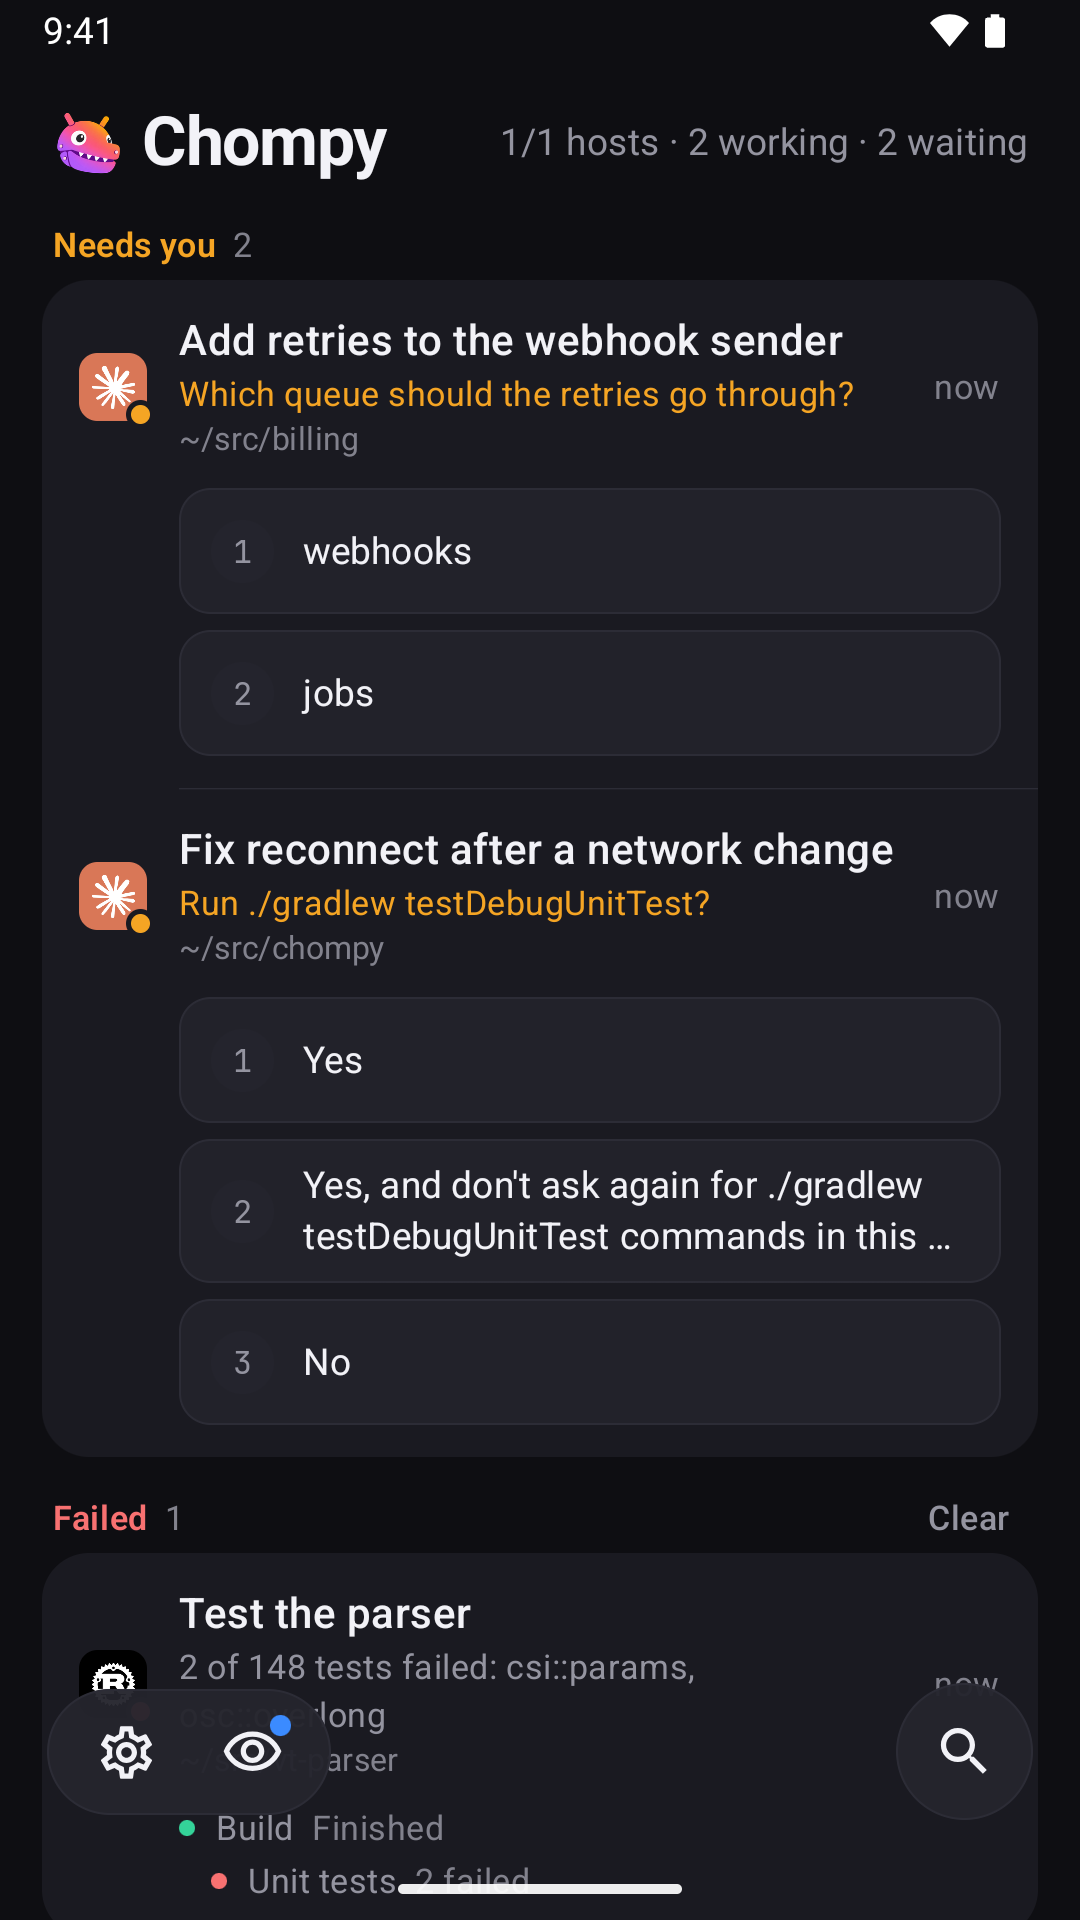
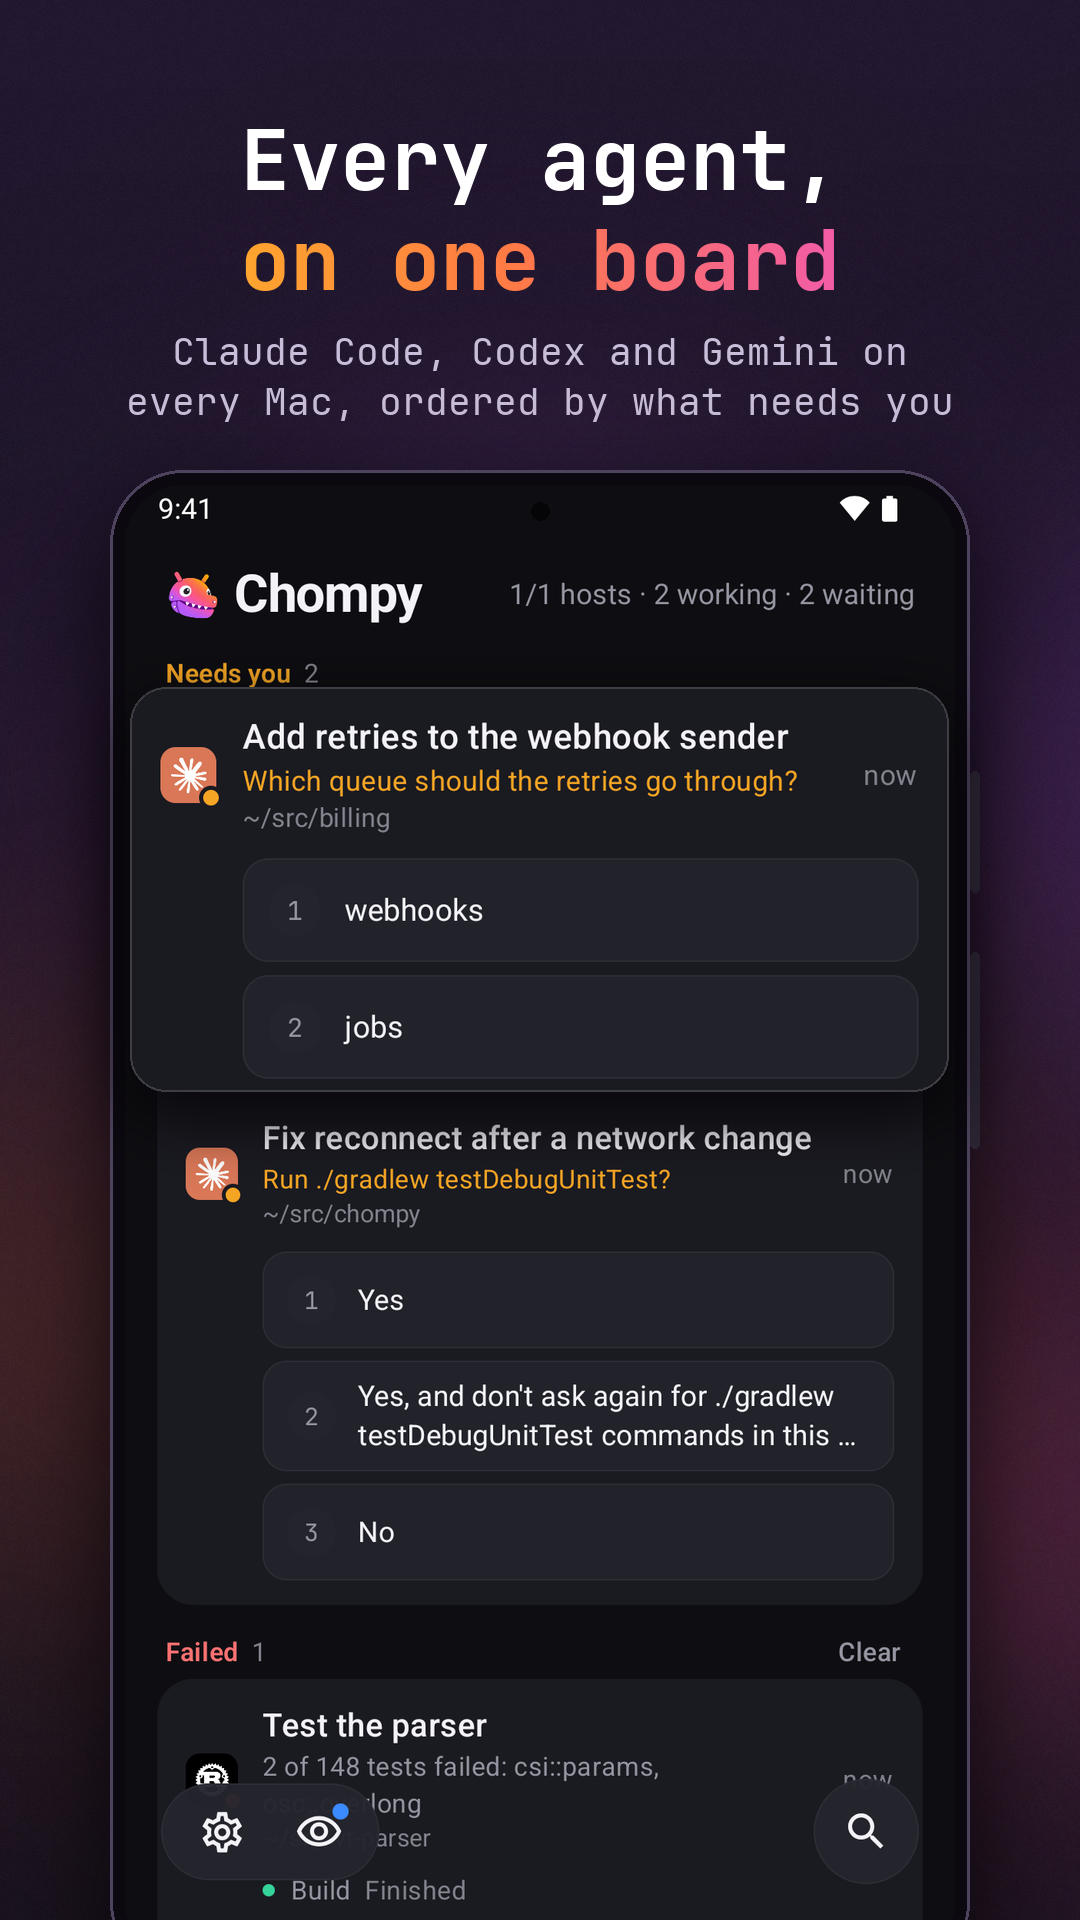
Play's screenshots: each in a phone under its headline
store-art.py frames the raw captures, now in docs/play/shots, with a headline
each, and redraws the feature graphic around the board.

diff --git a/docs/play/store-art.py b/docs/play/store-art.py
@@ -1,40 +1,255 @@
-"""Chompy's Play graphics: the 512 px icon, the 1024x500 feature graphic and a 1920x1080 promo-video backdrop.
+"""Chompy's Play graphics: the 512 px icon, the 1024x500 feature graphic, the six phone screenshots and a
+1920x1080 promo-video backdrop.
 
     python3 docs/play/store-art.py      # from the repository's root; needs Pillow
 
-The icon and feature graphic go in fastlane/metadata/android/en-US/images, the backdrop in build/demo for
-the promo video (docs/demo/README.md).
+The icon, feature graphic and screenshots go in fastlane/metadata/android/en-US/images, the backdrop in
+build/demo for the promo video (docs/demo/README.md). The screenshots frame the raw 1080x1920 captures in
+docs/play/shots, under a headline each, so a new recording only needs this run again.
 """
+import math
 import os
-from PIL import Image, ImageDraw, ImageFilter, ImageFont
+import random
+from PIL import Image, ImageChops, ImageDraw, ImageFilter, ImageFont
 
 repo = os.getcwd()
 out_listing, out_build = f"{repo}/fastlane/metadata/android/en-US/images", f"{repo}/build/demo"
+shots_in, shots_out = f"{repo}/docs/play/shots", f"{out_listing}/phoneScreenshots"
 os.makedirs(out_build, exist_ok=True)
+os.makedirs(shots_out, exist_ok=True)
 PLUM = (0x17, 0x12, 0x1F, 255)
+ORANGE, MAGENTA, VIOLET, AMBER = (0xE6, 0x68, 0x3D), (0xE0, 0x4C, 0x9A), (0xB0, 0x4C, 0xE0), (0xFF, 0xA5, 0x2E)
+PEACH, MUTED = (0xF2, 0xC6, 0xB4, 255), (0xC9, 0xBE, 0xD9, 255)
 BOLD = f"{repo}/app/src/main/res/font/jetbrains_mono_bold.ttf"
 REG = f"{repo}/app/src/main/res/font/jetbrains_mono.ttf"
 head = Image.open(f"{repo}/art/mascot/head2-gradient.png").convert("RGBA")
 body = Image.open(f"{repo}/art/mascot/full-gradient.png").convert("RGBA")
 logo = Image.open(f"{repo}/art/preview/logo-B.png").convert("RGBA")
 
+
+def save(im, path):
+    """24-bit PNG, as Play asks, with no metadata."""
+    im.convert("RGB").save(path)
+
+
 # Icon: the launcher's art, full bleed. Play rounds the corners itself.
 icon = Image.new("RGBA", logo.size, PLUM)
 icon.alpha_composite(logo)
-icon.convert("RGB").save(f"{out_listing}/icon.png")
+save(icon, f"{out_listing}/icon.png")
+
 
 def glow(size, centre, radius, colour, alpha):
-    """A soft disc of sunset light behind the mascot."""
+    """A soft disc of sunset light."""
     layer = Image.new("RGBA", size, (0, 0, 0, 0))
     d = ImageDraw.Draw(layer)
     x, y = centre
     d.ellipse((x - radius, y - radius, x + radius, y + radius), fill=colour + (alpha,))
     return layer.filter(ImageFilter.GaussianBlur(radius * 0.45))
 
+
 def fit(im, height):
     box = im.getbbox()
     im = im.crop(box)
     return im.resize((round(im.width * height / im.height), height), Image.LANCZOS)
+
+
+def sunset(size):
+    """The sunset gradient, amber to orange to magenta, left to right."""
+    stops = [(0.0, AMBER), (0.45, (0xFF, 0x7A, 0x45)), (1.0, (0xF2, 0x5C, 0xA8))]
+    strip = Image.new("RGB", (256, 1))
+    for i in range(256):
+        t = i / 255
+        for (t0, c0), (t1, c1) in zip(stops, stops[1:]):
+            if t0 <= t <= t1:
+                k = (t - t0) / (t1 - t0)
+                strip.putpixel((i, 0), tuple(round(a + (b - a) * k) for a, b in zip(c0, c1)))
+                break
+    return strip.resize(size, Image.BILINEAR).convert("RGBA")
+
+
+def gradient_text(canvas, xy, text, font):
+    """Text filled with the sunset gradient."""
+    x, y = xy
+    left, top, right, bottom = font.getbbox(text)
+    mask = Image.new("L", (right, bottom), 0)
+    ImageDraw.Draw(mask).text((0, 0), text, font=font, fill=255)
+    fill = sunset(mask.size)
+    fill.putalpha(mask)
+    canvas.alpha_composite(fill, (round(x), round(y)))
+
+
+def shadow(size, box, radius, blur, alpha, offset=(0, 0)):
+    """The soft shadow of a rounded rectangle."""
+    layer = Image.new("RGBA", size, (0, 0, 0, 0))
+    x0, y0, x1, y1 = box
+    dx, dy = offset
+    ImageDraw.Draw(layer).rounded_rectangle((x0 + dx, y0 + dy, x1 + dx, y1 + dy), radius, fill=(6, 3, 10, alpha))
+    return layer.filter(ImageFilter.GaussianBlur(blur))
+
+
+def rounded(im, radius):
+    """The image with its corners rounded off."""
+    mask = Image.new("L", im.size, 0)
+    ImageDraw.Draw(mask).rounded_rectangle((0, 0, im.width - 1, im.height - 1), radius, fill=255)
+    out = im.convert("RGBA")
+    out.putalpha(ImageChops.multiply(out.getchannel("A"), mask))
+    return out
+
+
+def phone(capture, width):
+    """The capture in a plain dark phone: thin bezel, rounded corners, a punch-hole camera, side keys."""
+    bezel = max(5, round(width * 0.018))
+    screen_w = width - 2 * bezel
+    screen = capture.convert("RGB").resize((screen_w, round(capture.height * screen_w / capture.width)), Image.LANCZOS)
+    height = screen.height + 2 * bezel
+    keys = max(2, round(width * 0.006))
+    out = Image.new("RGBA", (width + 2 * keys, height), (0, 0, 0, 0))
+    d = ImageDraw.Draw(out)
+    # Power and volume keys on the right edge.
+    for top, length in ((0.20, 0.08), (0.32, 0.13)):
+        d.rounded_rectangle((width, round(height * top), width + 2 * keys - 1, round(height * (top + length))),
+                            keys, fill=(0x2A, 0x24, 0x33, 255))
+    outer_r = round(width * 0.085)
+    rim = max(1, round(width * 0.003))
+    d.rounded_rectangle((0, 0, width - 1, height - 1), outer_r, fill=(0x4E, 0x43, 0x5E, 255))
+    d.rounded_rectangle((rim, rim, width - 1 - rim, height - 1 - rim), outer_r - rim, fill=(0x0B, 0x09, 0x0F, 255))
+    out.alpha_composite(rounded(screen, outer_r - bezel), (bezel, bezel))
+    cam = max(3, round(width * 0.011))
+    cx, cy = width // 2, bezel + round(width * 0.03)
+    d.ellipse((cx - cam, cy - cam, cx + cam, cy + cam), fill=(0x05, 0x04, 0x07, 255))
+    return out, bezel, screen_w / capture.width
+
+
+# The phone screenshots, 1080x1920, as Play wants them for promotion (9:16, 1080 px at least). Each is a
+# headline of two lines, the second in the sunset's colours, a line saying more, and the capture in a phone
+# that runs off the bottom edge. "lift" raises one part of the capture out of the phone, a little larger:
+# its box in the capture, the corner radius there, and how much larger. The boxes fit these captures, so
+# check them after a new recording.
+SHOTS = [
+    ("1_board", "Every agent,", "on one board",
+     "Claude Code, Codex and Gemini on every Mac, ordered by what needs you",
+     ((42, 280, 1038, 772), 44, 1.07)),
+    ("2_notification", "Answer from", "the notification",
+     "Pick an agent's answer in the shade, without opening the app",
+     ((42, 568, 1038, 891), 44, 1.08)),
+    ("3_permission", "Approve without", "the laptop",
+     "Permission prompts in the server's own terminal, one tap each",
+     ((21, 868, 1059, 1563), 46, 1.1)),
+    ("4_note", "Read what", "Claude flags",
+     "Claude's “You should know” notes, in full",
+     ((21, 792, 1059, 1563), 46, 1.1)),
+    ("5_claude_controls", "Claude's controls", "at hand",
+     "Effort, model and commands, right above the keyboard",
+     None),
+    ("6_themes", "All 41 of", "Rex's themes",
+     "The same themes as on the Mac, dark and light",
+     ((42, 490, 1038, 646), 40, 1.08)),
+]
+W, H = 1080, 1920
+HEAD, SUB = ImageFont.truetype(BOLD, 84), ImageFont.truetype(REG, 38)
+MARGIN = 72
+PHONE_W, PHONE_Y = 860, 470
+
+
+def wrap(text, font, width):
+    """One line if it fits, else two of about the same length."""
+    if font.getlength(text) <= width:
+        return [text]
+    words = text.split()
+    splits = [(" ".join(words[:i]), " ".join(words[i:])) for i in range(1, len(words))]
+    best = min(splits, key=lambda pair: max(font.getlength(line) for line in pair))
+    assert max(font.getlength(line) for line in best) <= width, f"too long for two lines: {text}"
+    return list(best)
+
+
+def backdrop():
+    """One wide background behind all six, so the glow runs on from one screenshot to the next."""
+    n, s = len(SHOTS), 4  # the glows are drawn at a quarter of the size: they're blurred anyway
+    size = (W * n // s, H // s)
+    bg = Image.new("RGBA", size, PLUM)
+    top = Image.new("RGBA", size, (0x22, 0x18, 0x30, 255))
+    fade = Image.linear_gradient("L").resize(size).point(lambda v: 255 - v)
+    bg = Image.composite(top, bg, fade)
+    for i in range(n):
+        cx = (i * W + W / 2) / s
+        wave = math.sin(i * 1.3)
+        bg.alpha_composite(glow(size, (cx + 260 / s * wave, 1300 / s), 560 / s, ORANGE, 92))
+        bg.alpha_composite(glow(size, (cx - 300 / s * wave, 820 / s), 470 / s, VIOLET, 74))
+        bg.alpha_composite(glow(size, ((i + 1) * W / s, 1500 / s), 380 / s, MAGENTA, 60))
+    bg = bg.resize((W * n, H), Image.BICUBIC)
+    # A little grain, so the dark gradients don't band. Seeded, so the same captures make the same files.
+    noise = Image.frombytes("L", (W * n, H), random.Random(7).randbytes(W * n * H))
+    grain = noise.point(lambda v: 128 + (v - 128) // 43)
+    return ImageChops.add(bg.convert("RGB"), Image.merge("RGB", (grain,) * 3), offset=-128).convert("RGBA")
+
+
+def screenshot(panel, name, line1, line2, subline, lift):
+    canvas = panel.copy()
+    d = ImageDraw.Draw(canvas)
+    y = 104
+    for text, colour in ((line1, (255, 255, 255, 255)), (line2, None)):
+        x = (W - HEAD.getlength(text)) / 2
+        if colour:
+            d.text((x, y), text, font=HEAD, fill=colour)
+        else:
+            gradient_text(canvas, (x, y), text, HEAD)
+        y += 100
+    y += 22
+    for line in wrap(subline, SUB, W - 2 * MARGIN - 40):
+        d.text(((W - SUB.getlength(line)) / 2, y), line, font=SUB, fill=MUTED)
+        y += 50
+    assert y <= PHONE_Y - 20, f"{name}: the words run into the phone"
+
+    capture = Image.open(f"{shots_in}/{name}.png").convert("RGB")
+    assert capture.size == (W, H), f"{name}: the capture is {capture.size}, not 1080x1920"
+    device, bezel, scale = phone(capture, PHONE_W)
+    px = (W - PHONE_W) // 2
+    box = (px, PHONE_Y, px + PHONE_W, PHONE_Y + device.height)
+    canvas.alpha_composite(shadow(canvas.size, box, 80, 46, 210, (0, 34)))
+    canvas.alpha_composite(device, (px, PHONE_Y))
+    if lift:
+        (x0, y0, x1, y1), radius, grow = lift
+        part = capture.crop((x0, y0, x1, y1))
+        w, h = round(part.width * scale * grow), round(part.height * scale * grow)
+        part = rounded(part.resize((w, h), Image.LANCZOS), round(radius * scale * grow))
+        # Centred where it sits in the phone.
+        cx = px + bezel + (x0 + x1) / 2 * scale
+        cy = PHONE_Y + bezel + (y0 + y1) / 2 * scale
+        lx, ly = round(cx - w / 2), round(cy - h / 2)
+        canvas.alpha_composite(shadow(canvas.size, (lx, ly, lx + w, ly + h), 30, 30, 230, (0, 22)))
+        canvas.alpha_composite(part, (lx, ly))
+        rim = Image.new("RGBA", canvas.size, (0, 0, 0, 0))
+        ImageDraw.Draw(rim).rounded_rectangle((lx, ly, lx + w - 1, ly + h - 1), round(radius * scale * grow),
+                                              outline=(0xFF, 0xFF, 0xFF, 40), width=2)
+        canvas.alpha_composite(rim)
+    save(canvas, f"{shots_out}/{name}.png")
+
+
+wide = backdrop()
+for i, shot in enumerate(SHOTS):
+    screenshot(wide.crop((i * W, 0, (i + 1) * W, H)), *shot)
+
+# Feature graphic, 1024x500: the name on the left, the board in a phone and Chompy on the right. Play may
+# crop the edges and put a play button in the middle, so both keep clear of them.
+fg = Image.new("RGBA", (1024, 500), PLUM)
+fg.alpha_composite(glow(fg.size, (760, 320), 250, ORANGE, 96))
+fg.alpha_composite(glow(fg.size, (860, 150), 190, VIOLET, 84))
+fg.alpha_composite(glow(fg.size, (650, 380), 200, MAGENTA, 70))
+fg.alpha_composite(glow(fg.size, (160, 520), 220, MAGENTA, 40))
+# The phone runs off the bottom edge, below the board's cards.
+board, _, _ = phone(Image.open(f"{shots_in}/1_board.png"), 300)
+fx, fy = 1024 - 86 - 300, 38
+fg.alpha_composite(shadow(fg.size, (fx, fy, fx + 300, fy + board.height), 28, 18, 210, (0, 10)))
+fg.alpha_composite(board, (fx, fy))
+mascot = fit(body, 262)
+fg.alpha_composite(mascot, (576, 500 - mascot.height - 20))
+d = ImageDraw.Draw(fg)
+d.text((70, 118), "Chompy", font=ImageFont.truetype(BOLD, 100), fill=(255, 255, 255, 255))
+tag = ImageFont.truetype(BOLD, 32)
+gradient_text(fg, (74, 268), "Your coding agents,", tag)
+gradient_text(fg, (74, 314), "on your phone.", tag)
+save(fg, f"{out_listing}/featureGraphic.png")
+
 
 def text_block(canvas, x, y, scale):
     d = ImageDraw.Draw(canvas)
@@ -42,26 +257,18 @@ def text_block(canvas, x, y, scale):
     y += round(140 * scale)
     tag = ImageFont.truetype(REG, round(31 * scale))
     for line in ("Your coding agents,", "on your phone."):
-        d.text((x, y), line, font=tag, fill=(0xF2, 0xC6, 0xB4, 255))
+        d.text((x, y), line, font=tag, fill=PEACH)
         y += round(44 * scale)
     y += round(22 * scale)
     d.text((x, y), "An unofficial client for Rex", font=ImageFont.truetype(REG, round(21 * scale)), fill=(0x9A, 0x8F, 0xAD, 255))
 
-# Feature graphic, 1024x500: the words on the left, Chompy standing on the right.
-fg = Image.new("RGBA", (1024, 500), PLUM)
-fg.alpha_composite(glow(fg.size, (790, 270), 230, (0xE6, 0x68, 0x3D), 70))
-fg.alpha_composite(glow(fg.size, (840, 200), 170, (0xB0, 0x4C, 0xE0), 60))
-mascot = fit(body, 440)
-fg.alpha_composite(mascot, (1024 - mascot.width - 70, 500 - mascot.height - 22))
-text_block(fg, 72, 92, 1.0)
-fg.convert("RGB").save(f"{out_listing}/featureGraphic.png")
 
 # Promo video backdrop, 1920x1080: the words and the head on the left; the phone's video goes on the right,
 # 486x1080 at x=1250.
 bg = Image.new("RGBA", (1920, 1080), PLUM)
-bg.alpha_composite(glow(bg.size, (1493, 540), 520, (0xE6, 0x68, 0x3D), 46))
-bg.alpha_composite(glow(bg.size, (1493, 380), 380, (0xB0, 0x4C, 0xE0), 40))
+bg.alpha_composite(glow(bg.size, (1493, 540), 520, ORANGE, 46))
+bg.alpha_composite(glow(bg.size, (1493, 380), 380, VIOLET, 40))
 h = fit(head, 300)
 bg.alpha_composite(h, (150, 150))
 text_block(bg, 150, 500, 1.55)
-bg.convert("RGB").save(f"{out_build}/promo-backdrop.png")
+save(bg, f"{out_build}/promo-backdrop.png")

diff --git a/docs/demo/README.md b/docs/demo/README.md
@@ -74,9 +74,11 @@ little longer at some of them, for the last banner to go and the note's card to 
 - **The README's** come from a run at the emulator's own size, scaled to 540×1200: `board` is
   `docs/media/board.png`, `permission` is `answer.png` and `note-open` is `note.png`.
 - **Play's** come from a run at 1080×1920, since Play takes no screenshot longer than twice its width.
-  Run `adb shell wm size 1080x1920` first, and `adb shell wm size reset` after. They are
-  `fastlane/metadata/android/en-US/images/phoneScreenshots`: the board, a notification (below),
-  permission, the note, Claude's controls, and Settings › Look › Theme.
+  Run `adb shell wm size 1080x1920` first, and `adb shell wm size reset` after. They go in
+  `docs/play/shots`: `board` as `1_board.png`, the notification (below) as `2_notification.png`,
+  `permission` as `3_permission.png`, `note-open` as `4_note.png`, `effort` as `5_claude_controls.png`,
+  and Settings › Look › Theme as `6_themes.png`. [`store-art.py`](../play/store-art.py) then puts each in
+  a phone under its headline, in `fastlane/metadata/android/en-US/images/phoneScreenshots`.
 
 ## For Google Play
 
@@ -86,7 +88,7 @@ little longer at some of them, for the last banner to go and the note's card to 
   `build/demo/away-raw.mp4`, for the foreground service declaration, and the notification shade in
   `build/demo/notification.png`, for the listing.
 - **The promo video**, landscape as Play shows it: the take over a backdrop with the name, made by
-  [`store-art.py`](../play/store-art.py) with the icon and the feature graphic.
+  [`store-art.py`](../play/store-art.py) with the icon, the feature graphic and the screenshots.
 
   ```sh
   python3 docs/play/store-art.py

diff --git a/docs/play/README.md b/docs/play/README.md
@@ -80,8 +80,22 @@ with `fastlane supply`:
 | What's new (500) | `changelogs/<versionCode>.txt`, or `default.txt` |
 | Video | A YouTube link to the promo video ([how it's made](../demo/README.md#for-google-play)) |
 
-[`store-art.py`](store-art.py) makes the icon and the feature graphic from the art in `art/`. Elsewhere
-in the listing:
+[`store-art.py`](store-art.py) makes the icon and the feature graphic from the art in `art/`, and the
+screenshots from the raw captures in [`shots/`](shots), each in a phone under a headline:
+
+| Screenshot | Headline |
+|---|---|
+| `1_board` | Every agent, on one board |
+| `2_notification` | Answer from the notification |
+| `3_permission` | Approve without the laptop |
+| `4_note` | Read what Claude flags |
+| `5_claude_controls` | Claude's controls at hand |
+| `6_themes` | All 41 of Rex's themes |
+
+The words are in `SHOTS` at the top of the script. Play takes a headline only if it covers no more than
+a fifth of the image, and no ranking, price or call to action ("#1", "Best", "Download now"). After a new
+recording, put the captures in `shots/` under the same names, check the boxes of the parts each one
+lifts out of the phone, and run it again. Elsewhere in the listing:
 
 - **Category:** Tools. **Tags:** developer tools, productivity.
 - **Contact email:** jeffarese@gmail.com. **Website:** https://github.com/jeffarese/chompy
